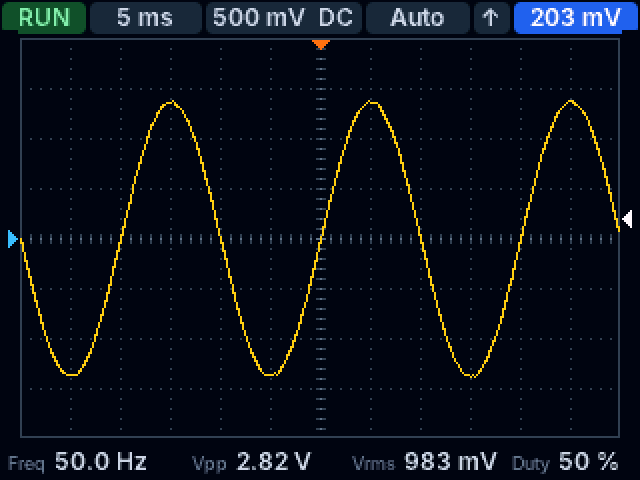
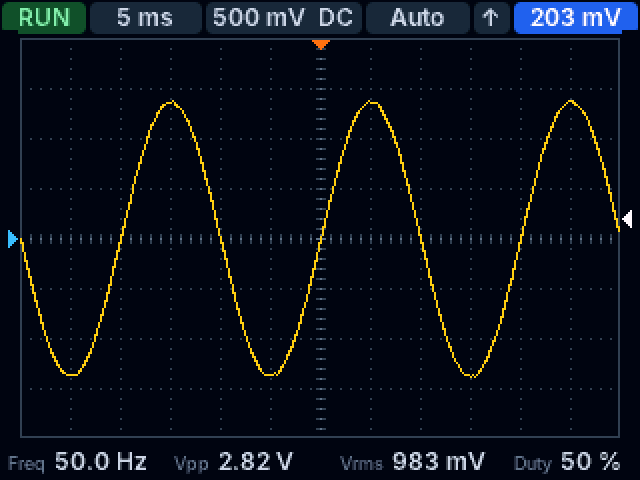
Fit the measurement bar to the label widths of each language
German "Tastgrad" pushed the duty value off screen. Cells now reserve
label width plus the widest possible value and share the rest as spacing.

Claude-Session: https://claude.ai/code/session_01Gv5Aj3PtjHaRuvx5Ypizcv

Changed region(s): [[0.5312, 0.9375, 0.9688, 1.0], [0.25, 0.9375, 0.5, 1.0]]

diff --git a/src/ui.cpp b/src/ui.cpp
@@ -315,34 +315,47 @@ void measurements(const View &v) {
 		return;
 	}
 	const Measurements &m = *v.m;
-	char buf[20];
-	if (m.freq > 0) Measure::format(buf, sizeof buf, m.freq, "Hz");
-	else strcpy(buf, "--");
-	measureCell(4, 88, I18n::tr(S_FREQ), buf);
 
-	Measure::format(buf, sizeof buf, m.vpp, "V");
-	measureCell(96, 76, I18n::tr(S_VPP), buf);
-
-	Measure::format(buf, sizeof buf, m.vrms, "V");
-	measureCell(176, 76, I18n::tr(S_VRMS), buf);
-
-	if (m.clipped) {
-		Gfx::textBox(FONT_S, I18n::tr(S_CLIPPED), 256, BAR_Y + 5, 62, ALIGN_LEFT, C_ERR_FG, C_BG);
-		return;
+	// Cell widths follow the label lengths of the current language: each cell
+	// reserves its label plus the widest value it can show, the rest of the
+	// bar is shared out as spacing.
+	static const Str LABELS[4] = {S_FREQ, S_VPP, S_VRMS, S_DUTY};
+	static const char *const WIDEST[4] = {"888 kHz", "88.8 mV", "88.8 mV", "100 %"};
+	int16_t w[4], sum = 0;
+	for (uint8_t i = 0; i < 4; i++) {
+		w[i] = Gfx::textWidth(FONT_S, I18n::tr(LABELS[i])) + 4 + Gfx::textWidth(FONT_M, WIDEST[i]);
+		sum += w[i];
 	}
+	int16_t gap = (LCD_W - 8 - sum) / 3;
+	if (gap < 2) gap = 2;
+
+	char val[4][20];
+	if (m.freq > 0) Measure::format(val[0], sizeof val[0], m.freq, "Hz");
+	else strcpy(val[0], "--");
+	Measure::format(val[1], sizeof val[1], m.vpp, "V");
+	Measure::format(val[2], sizeof val[2], m.vrms, "V");
 	if (m.freq > 0) {
 		uint16_t d = uint16_t(m.duty * 100.0f + 0.5f);
-		buf[0] = char('0' + (d / 100) % 10);
-		buf[1] = char('0' + (d / 10) % 10);
-		buf[2] = char('0' + d % 10);
-		buf[3] = ' ';
-		buf[4] = '%';
-		buf[5] = 0;
-		char *p = buf;
-		while (p[0] == '0' && p[1] != ' ') p++;
-		measureCell(256, 62, I18n::tr(S_DUTY), p);
+		char *p = val[3];
+		if (d >= 100) *p++ = char('0' + d / 100);
+		if (d >= 10) *p++ = char('0' + (d / 10) % 10);
+		*p++ = char('0' + d % 10);
+		strcpy(p, " %");
 	} else {
-		measureCell(256, 62, I18n::tr(S_DUTY), "--");
+		strcpy(val[3], "--");
+	}
+
+	int16_t x = 4;
+	for (uint8_t i = 0; i < 4; i++) {
+		int16_t cw = i < 3 ? w[i] + gap : LCD_W - x;
+		if (i == 3 && m.clipped) {
+			Gfx::textBox(FONT_S, I18n::tr(S_CLIPPED), x, BAR_Y + 5, cw, ALIGN_LEFT, C_ERR_FG, C_BG);
+			Tft::fillRect(x, BAR_Y, cw, 5, C_BG);
+			Tft::fillRect(x, BAR_Y + 5 + FONT_S.height, cw, BAR_H - 5 - FONT_S.height, C_BG);
+		} else {
+			measureCell(x, cw, I18n::tr(LABELS[i]), val[i]);
+		}
+		x += cw;
 	}
 }
 
